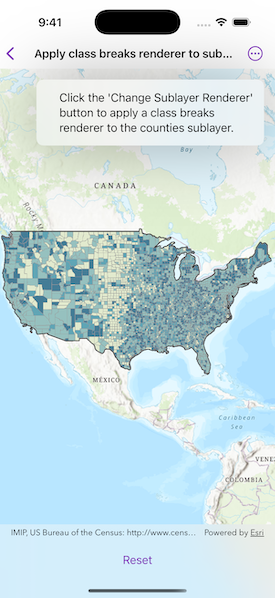
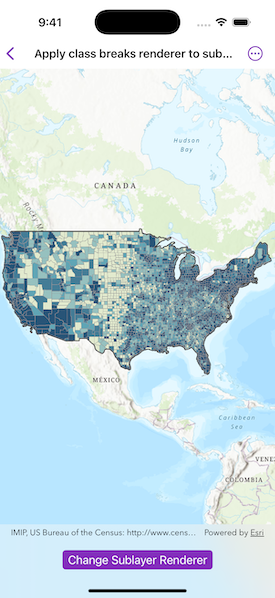
PR review feedback

diff --git a/Shared/Samples/Apply class breaks renderer to sublayer/ApplyClassBreaksRendererToSublayerView.swift b/Shared/Samples/Apply class breaks renderer to sublayer/ApplyClassBreaksRendererToSublayerView.swift
@@ -1,4 +1,4 @@
-// Copyright 2024 Esri
+// Copyright 2025 Esri
 //
 // Licensed under the Apache License, Version 2.0 (the "License");
 // you may not use this file except in compliance with the License.
@@ -55,33 +55,18 @@ struct ApplyClassBreaksRendererToSublayerView: View {
                 map.addOperationalLayer(mapImageLayer)
                 await loadMapImageSublayer()
             }
-            .overlay(alignment: .topTrailing) {
-                VStack(alignment: .leading) {
-                    Text("""
-                        Click the 'Change Sublayer Renderer'
-                        button to apply a class breaks
-                        renderer to the counties sublayer.
-                    """)
-                }
-                .fixedSize()
-                .padding()
-                .background(.thinMaterial)
-                .clipShape(.rect(cornerRadius: 10))
-                .shadow(radius: 50)
-                .padding()
-            }
             .toolbar {
                 ToolbarItem(placement: .bottomBar) {
-                    Button(applyClassBreaksRenderer ? "Reset" : "Change Sublayer Renderer") {
-                        if applyClassBreaksRenderer {
-                            // Applies the original renderer.
-                            countiesLayer?.renderer = originalRenderer
-                        } else {
-                            // Applies the class breaks renderer.
-                            countiesLayer?.renderer = .populationRenderer
-                        }
-                        applyClassBreaksRenderer.toggle()
-                    }
+                    Toggle("Change Sublayer Renderer", isOn: $applyClassBreaksRenderer)
+                }
+            }
+            .task(id: applyClassBreaksRenderer) {
+                if applyClassBreaksRenderer {
+                    // Applies the class breaks renderer.
+                    countiesLayer?.renderer = .populationRenderer
+                } else {
+                    // Applies the original renderer.
+                    countiesLayer?.renderer = originalRenderer
                 }
             }
             .errorAlert(presentingError: $error)
@@ -111,9 +96,7 @@ struct ApplyClassBreaksRendererToSublayerView: View {
 private extension Renderer {
     /// Creates a class breaks renderer for counties in the US based on their
     /// population in 2007.
-    ///
-    /// - Returns: A `ClassBreaksRenderer` object.
-    static let populationRenderer: ClassBreaksRenderer = {
+    static var populationRenderer: ClassBreaksRenderer {
         // Outline symbol.
         let lineSymbol = SimpleLineSymbol(style: .solid, color: UIColor(white: 0.6, alpha: 1), width: 0.5)
         
@@ -129,10 +112,10 @@ private extension Renderer {
         let classBreak2 = ClassBreak(description: "> 8,560 to 18,109", label: "> 8,560 to 18,109", minValue: 8_561, maxValue: 18_109, symbol: symbol2)
         let classBreak3 = ClassBreak(description: "> 18,109 to 35,501", label: "> 18,109 to 35,501", minValue: 18_110, maxValue: 35_501, symbol: symbol3)
         let classBreak4 = ClassBreak(description: "> 35,501 to 86,100", label: "> 35,501 to 86,100", minValue: 35_502, maxValue: 86_100, symbol: symbol4)
-        let classBreak5 = ClassBreak(description: "> 86,100 to 10,110,975", label: "> 86,100 to 10,110,975", minValue: 86_101, maxValue: 10_110_975, symbol: symbol2)
+        let classBreak5 = ClassBreak(description: "> 86,100 to 10,110,975", label: "> 86,100 to 10,110,975", minValue: 86_101, maxValue: 10_110_975, symbol: symbol5)
         
         return ClassBreaksRenderer(fieldName: "POP2007", classBreaks: [classBreak1, classBreak2, classBreak3, classBreak4, classBreak5])
-    }()
+    }
 }
 
 #Preview {

diff --git a/Shared/Samples/Apply class breaks renderer to sublayer/README.md b/Shared/Samples/Apply class breaks renderer to sublayer/README.md
@@ -10,22 +10,22 @@ A layer showing animal populations contains sublayers for different species. A r
 
 ## How to use the sample
 
-Wait for the map image layer to load. Click the 'Change Sublayer Renderer' button to apply a unique value renderer to see different population ranges in the counties sub-layer data.
+Wait for the map image layer to load. Tap the 'Change Sublayer Renderer' button to apply a unique value renderer to see different population ranges in the counties sub-layer data.
 
 ## How it works
 
 1. Create an `ArcGISMapImageLayer` from its URL.
-2. After it is done loading, get its `SublayerList` with `imageLayer.mapImageSublayers()`.
-3. Get the map image sublayer you want: `mapImageSublayers[2]`.
+2. After it is done loading, get its map image sublayers.
+3. Get the `MapImageSublayer` you want.
 4. Create a `ClassBreaksRenderer` with a collection of `ClassBreak`s for different population ranges.
-5. Set the renderer of the sublayer with `sublayer.renderer = classBreaksRenderer`.
+5. Set class breaks renderer as the renderer of the sublayer.
 
 ## Relevant API
 
 * ArcGISMapImageLayer
 * ArcGISMapImageSubLayer
+* ClassBreak
 * ClassBreaksRenderer
-* ClassBreaksRenderer.ClassBreak
 
 ## About the data
 
